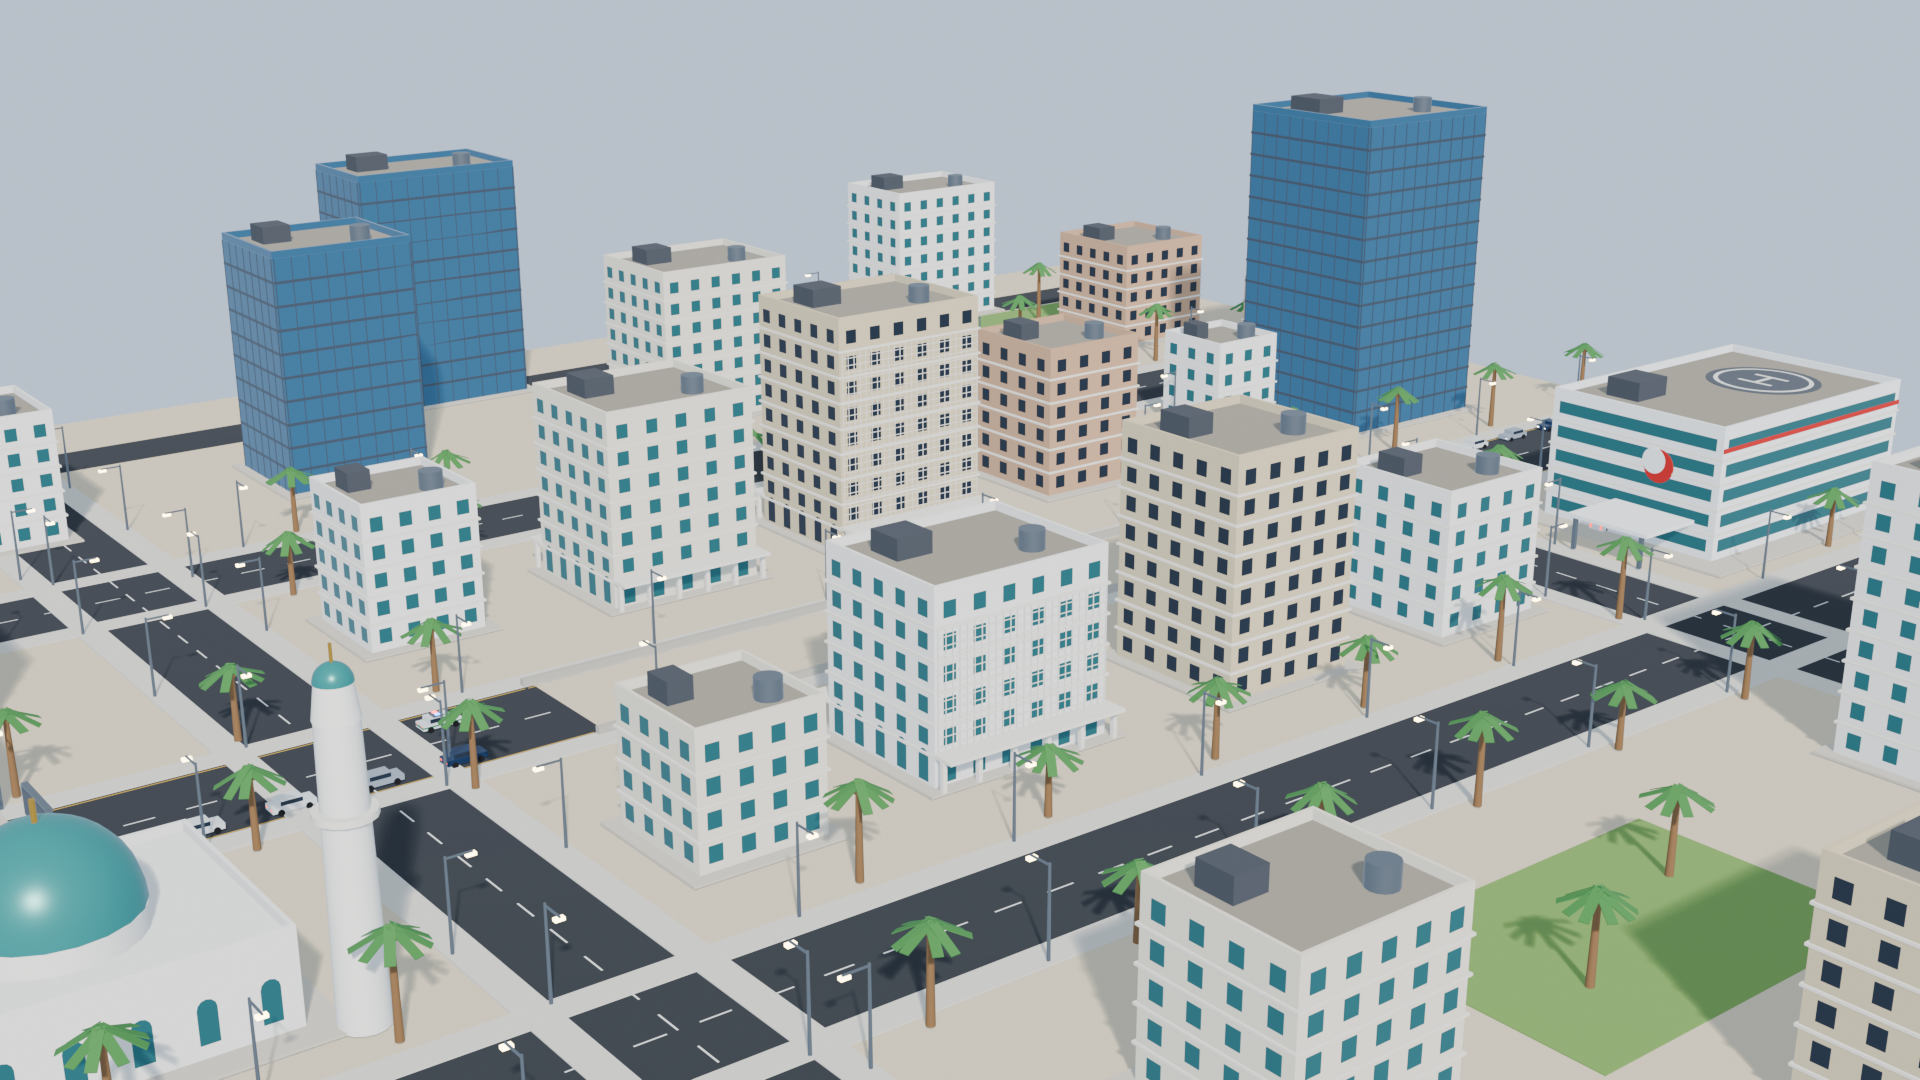
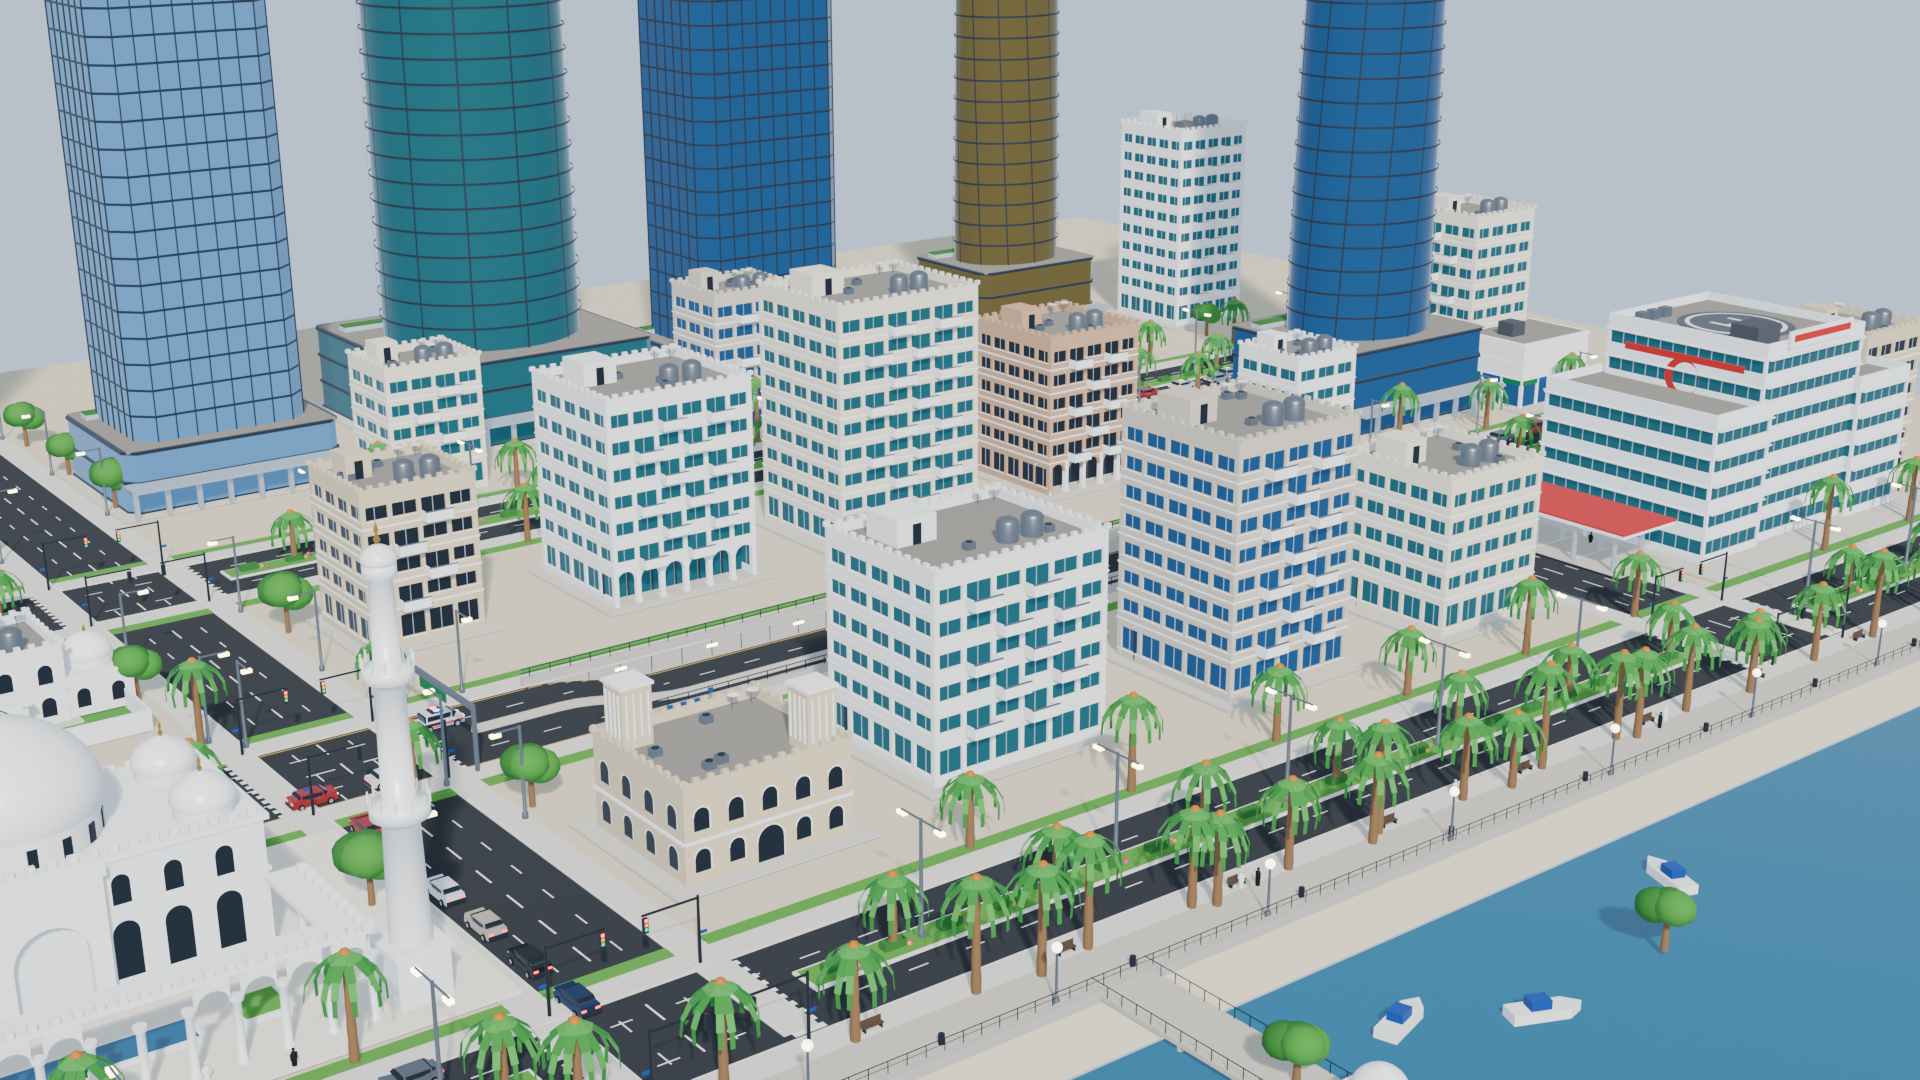
Refresh Blender stills for the v2 district and update README and landing copy

diff --git a/src/components/landing/Sections.tsx b/src/components/landing/Sections.tsx
@@ -158,7 +158,7 @@ export function Twin() {
   const shots = [
     { src: "/renders/district_overview.png", cap: "Al Majaz district — normal operations" },
     { src: "/renders/underpass_flooded.png", cap: "Underpass flooded, closure and patrol deployed" },
-    { src: "/renders/hospital_response.png", cap: "Al Majaz Medical Centre — dispatch origin" },
+    { src: "/renders/corniche_waterfront.png", cap: "Corniche waterfront and the skyline cluster" },
   ];
   return (
     <section className="py-24 border-t border-line">
@@ -168,7 +168,7 @@ export function Twin() {
             <Eyebrow>Digital twin</Eyebrow>
             <h2 className="text-[34px] md:text-[40px] font-semibold tracking-tight leading-tight max-w-[760px]">A district built to tell the story, not just to look good.</h2>
           </div>
-          <p className="text-[15px] text-ink-2 max-w-[440px] leading-relaxed">Procedurally generated in Blender — roads, the sunken underpass, residences with Gulf architectural cues, a medical centre, mosque, signage and vehicles — with the water rise animated in Blender and scrubbed live by the simulation.</p>
+          <p className="text-[15px] text-ink-2 max-w-[440px] leading-relaxed">Procedurally generated in Blender — an Abu Dhabi-style district with glass towers, arcaded residences, villas with wind towers, a mosque complex, a medical centre, the Corniche and its waterfront, signage and traffic — with the water rise animated in Blender and scrubbed live by the simulation.</p>
         </div>
         <div className="mt-10 grid grid-cols-1 md:grid-cols-3 gap-4">
           {shots.map((s) => (

diff --git a/README.md b/README.md
@@ -15,9 +15,11 @@ AMAN 360 is a government-grade prototype of a last-mile emergency communication 
 
 The prototype demonstrates one complete end-to-end scenario — a **flash flood in an urban underpass** — through an operator command platform and an interactive 3D digital twin built in Blender.
 
-| Digital twin (Blender render) | Flooded underpass, closure deployed | Medical centre, dispatch origin |
+| Digital twin (Blender render) | Flooded underpass, closure deployed | Corniche waterfront and skyline |
 | --- | --- | --- |
-| ![District overview](public/renders/district_overview.png) | ![Flooded underpass](public/renders/underpass_flooded.png) | ![Medical centre](public/renders/hospital_response.png) |
+| ![District overview](public/renders/district_overview.png) | ![Flooded underpass](public/renders/underpass_flooded.png) | ![Corniche](public/renders/corniche_waterfront.png) |
+
+The district is an Abu Dhabi-style synthetic district: curved and twisted glass towers on the skyline, arcaded mid-rise residences with balconies and merlons, Emirati villas with wind towers, a Grand-Mosque-style complex, a medical centre, landscaped boulevards, and the Corniche with its promenade, pier and sea. In the web twin the flood water is rendered as a turbid, rippling surface with rain rings, foam and drifting debris.
 
 ---
 
